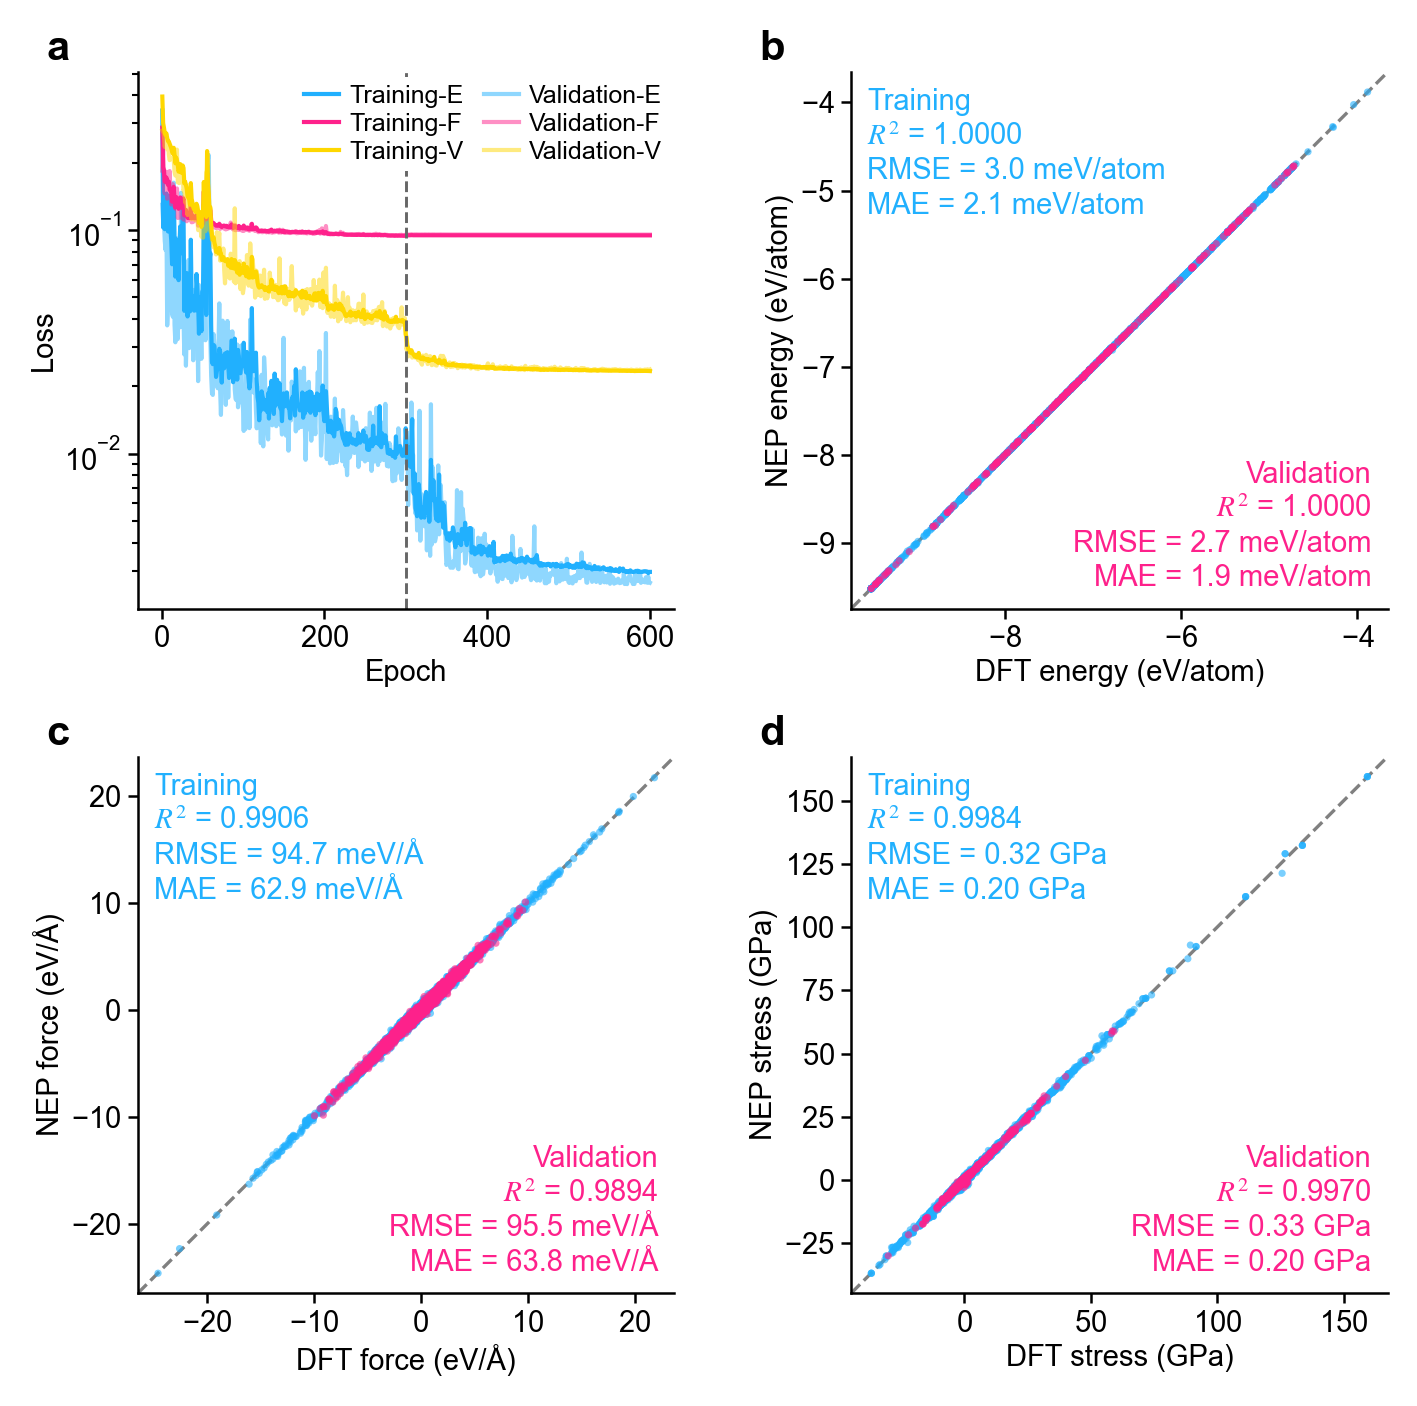
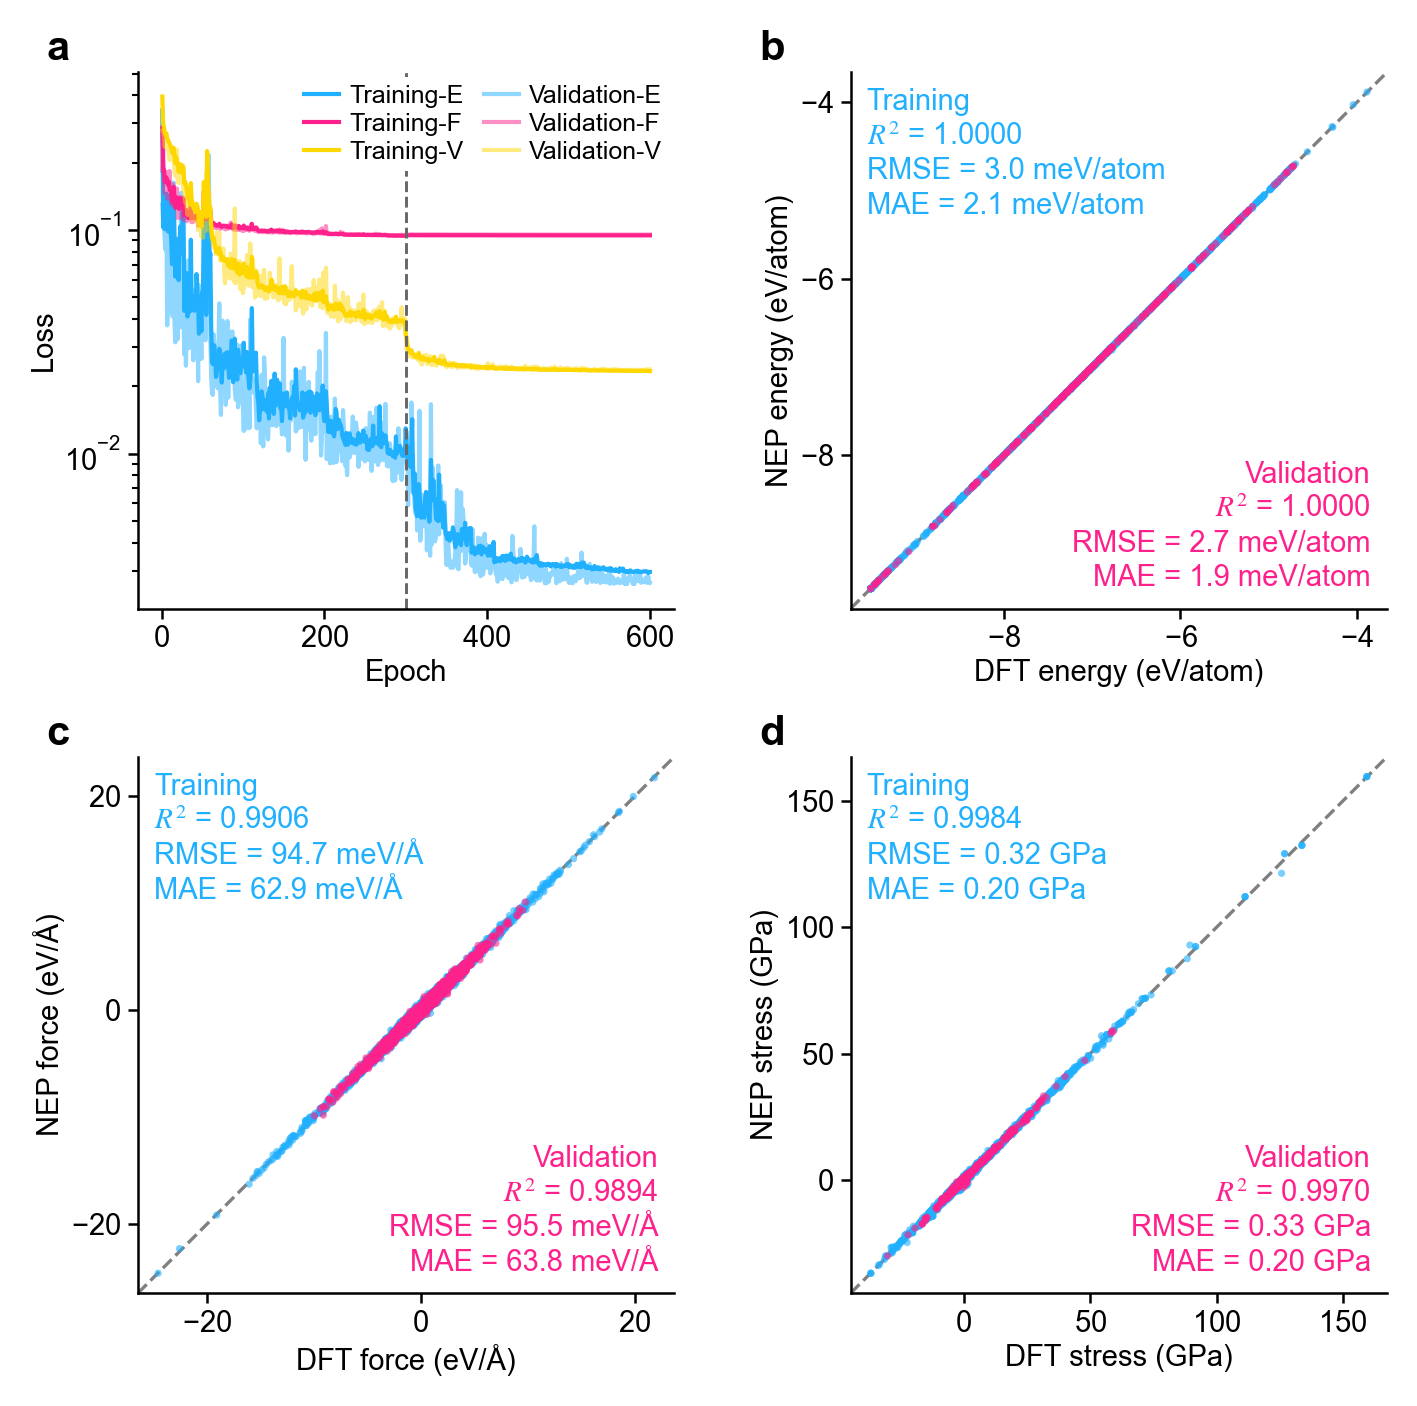
plot: drop the error-density strip; parity panels share DFT/NEP limits and ticks

diff --git a/torchnep/plot.py b/torchnep/plot.py
@@ -317,28 +317,6 @@ def _density(ax, x, y, extent, cmap, zorder=2, bins=80, cmap_range=(0.1, 0.9), c
     return col
 
 
-def _kde(x, grid):
-    """Gaussian kernel density of ``x`` on the uniform ``grid`` (Silverman
-    bandwidth, at least one grid step). Every point is used: the data are
-    binned on the grid and the histogram is smoothed with the kernel, so the
-    cost is O(N) and rare outliers are not lost to subsampling."""
-    x = np.asarray(x, float).ravel()
-    if len(x) == 0:
-        return np.zeros_like(grid)
-    sd = float(x.std())
-    step = float(grid[1] - grid[0])
-    if sd <= 0:
-        return np.zeros_like(grid)
-    h = max(1.06 * sd * len(x) ** (-0.2), step)
-    edges = np.concatenate([grid - step / 2, [grid[-1] + step / 2]])
-    counts, _ = np.histogram(x, bins=edges)
-    half = int(np.ceil(4 * h / step))
-    k = np.exp(-0.5 * (np.arange(-half, half + 1) * step / h) ** 2)
-    out = np.convolve(counts.astype(float), k, mode="same")[:len(grid)] if len(k) <= len(grid) \
-        else np.convolve(counts.astype(float), k, mode="full")[half:half + len(grid)]
-    return out / (len(x) * h * np.sqrt(2 * np.pi))
-
-
 _QTY = {   # key: (title, unit, error unit, error scale)
     "E": ("Energy", "eV/atom", "meV/atom", 1e3),
     "F": ("Force", "eV/Å", "meV/Å", 1e3),
@@ -390,6 +368,15 @@ PT_FAMILIES = [
     ("Lanthanides (4f)", "La Ce Pr Nd Pm Sm Eu Gd Tb Dy Ho Er Tm Yb Lu", "#e377c2"),
     ("Actinides (5f)", "Ac Th Pa U Np Pu Am Cm Bk Cf Es Fm Md No Lr", "#c49c94"),
 ]
+
+
+def _equal_ticks(ax, lo, hi, nbins=5):
+    """Parity panel: the same limits and the same tick positions on the DFT (x) and NEP (y) axes."""
+    from matplotlib.ticker import MaxNLocator
+    t = MaxNLocator(nbins=nbins, steps=[1, 2, 2.5, 5, 10]).tick_values(lo, hi)
+    t = t[(t >= lo - 1e-9 * (hi - lo)) & (t <= hi + 1e-9 * (hi - lo))]
+    ax.set_xticks(t); ax.set_yticks(t)
+    ax.set_xlim(lo, hi); ax.set_ylim(lo, hi)
 
 
 def element_errors(path, xyz, split="train"):
@@ -563,8 +550,7 @@ class NEPPlotter:
             ax.scatter(r, p, s=4, alpha=0.5, color=color, edgecolors="none",
                        rasterized=True)
         ax.plot([lo, hi], [lo, hi], "--", color="0.3", lw=0.8, zorder=0)
-        ax.set_xlim(lo, hi)
-        ax.set_ylim(lo, hi)
+        _equal_ticks(ax, lo, hi)
         ax.set_aspect("equal", adjustable="box")
         ax.set_xlabel(f"DFT {title.lower()} ({unit})")
         ax.set_ylabel(f"NEP {title.lower()} ({unit})")
@@ -672,9 +658,8 @@ class NEPPlotter:
 
     def _block(self, fig, box, sets, q, kind, margins, bins=80, cell="hex"):
         """One quantity: square parity panel at ``box = (x0, y0, L)`` (cm) and,
-        with ``margins``, the error against the DFT value on top and the
-        error density on the right. Returns (main axes, top axes or None,
-        hexbin handles)."""
+        with ``margins``, the error (NEP − DFT) against the DFT value in a strip
+        on top. Returns (main axes, top axes or None, density handles)."""
         W, H = fig.get_size_inches() * 2.54
         x0, y0, L = box
         gap, strip = 0.12, 0.3 * L
@@ -686,8 +671,6 @@ class NEPPlotter:
         if not margins:
             return ax, None, handles
         ax_top = add(x0, y0 + L + gap, L, strip)
-        ax_right = add(x0 + L + gap, y0, strip, L)
-        title, unit, _, _ = _QTY[q]
         errs = []
         for k, (label, ref, pred, sk) in enumerate(sets):
             ref, pred = np.ravel(ref).astype(float), np.ravel(pred).astype(float)
@@ -703,6 +686,7 @@ class NEPPlotter:
                 ax_top.scatter(ref, err, s=2, alpha=0.5, color=color, edgecolors="none",
                                rasterized=True, zorder=2 + k)
         ax_top.axhline(0.0, color="grey", lw=0.7, ls="--", zorder=1)
+        ax_top.set_xticks(ax.get_xticks())
         ax_top.set_xlim(ax.get_xlim())
         ax_top.set_ylabel("Error")               # same unit as the axes below
         ax_top.tick_params(labelbottom=False)
@@ -712,7 +696,6 @@ class NEPPlotter:
             if hi - lo < 1e-12:
                 lo, hi = lo - 0.5, hi + 0.5
             lo, hi = lo - 0.04 * (hi - lo), hi + 0.04 * (hi - lo)
-            grid = np.linspace(lo, hi, 300)
             if kind == "density":
                 xl = ax.get_xlim()
                 for k, (label, ref, pred, sk) in enumerate(sets):
@@ -720,28 +703,7 @@ class NEPPlotter:
                     _density(ax_top, ref, pred - ref, (xl[0], xl[1], lo, hi), self.cmaps[sk],
                              zorder=2 + k, cell=cell, cmap_range=self.cmap_range, cmap_reverse=self.cmap_reverse,
                              bins=bins if cell == "hex" else (bins, max(10, bins // 3)))
-            for err, sk in errs:
-                color = self.colors[sk] if kind != "density" else _dark(self.cmaps[sk])
-                dens = _kde(err, grid)
-                ax_right.fill_betweenx(grid, 0, dens, color=color, alpha=0.35, lw=0)
-                ax_right.plot(dens, grid, color=color, lw=0.9)
-            ax_right.axhline(0.0, color="grey", lw=0.7, ls="--", zorder=1)
             ax_top.set_ylim(lo, hi)
-            ax_right.set_ylim(lo, hi)
-            ax_right.set_xlim(0, None)
-        ax_right.set_xlabel("Density")
-        ax_right.set_xticks([])
-        # the error axis of the density strip is labelled on its own right side (the left side faces the parity
-        # panel, whose y axis is the NEP value, not the error): same range and ticks as the error strip on top
-        ax_right.spines["left"].set_visible(False)
-        ax_right.spines["right"].set_visible(True)
-        ax_right.yaxis.tick_right()
-        ax_right.yaxis.set_label_position("right")
-        ax_right.tick_params(axis="y", left=False, labelleft=False, right=True, labelright=True)
-        if ax_top is not None:
-            ax_right.set_yticks(ax_top.get_yticks())
-            ax_right.set_ylim(ax_top.get_ylim())
-        ax_right.set_ylabel("Error", rotation=270, labelpad=8)
         return ax, ax_top, handles
 
     def parity(self, path, kind="scatter", margins=False, virial=False, out=None,
@@ -751,9 +713,9 @@ class NEPPlotter:
         last only with stress labels) with training and validation overlaid
         and R^2 / RMSE / MAE per set. ``kind="density"``: log-count 2-D histograms
         (training Blues, validation Reds) with a small horizontal colorbar
-        under every panel. ``margins=True`` adds the error distribution
-        around each panel: NEP − DFT against the DFT value on top, a kernel
-        density estimate of the error on the right. ``virial=True`` shows the
+        under every panel. ``margins=True`` adds a strip on top of each panel
+        with the error NEP − DFT against the DFT value. The DFT and NEP axes
+        share limits and ticks. ``virial=True`` shows the
         virial (eV/atom) instead of the stress in the third panel;
         ``quantities`` overrides the panels altogether (any of ``E F V S``);
         ``shift_energy`` (``"mean"`` /
@@ -790,7 +752,7 @@ class NEPPlotter:
         L = float(size)
         left, top, gap = 1.25, 0.55, 0.12                  # margins in cm
         strip = 0.3 * L if margins else 0.0
-        right = 0.35 + (strip + gap + 0.9 if margins else 0.0)     # + room for the error ticks/label of the density strip
+        right = 0.35
         cbar_h = 0.75 if kind == "density" else 0.0         # bar + its label
         bottom = 0.95 + cbar_h
         block = left + L + right
@@ -976,8 +938,7 @@ class NEPPlotter:
                         transform=ax.transAxes, ha=c["ha"], va=c["va"], color=tcolor,
                         fontsize=self.rc["font.size"], linespacing=1.3, zorder=10)
         ax.plot([lo, hi], [lo, hi], "--", color="grey", lw=0.8, zorder=1)
-        ax.set_xlim(lo, hi)
-        ax.set_ylim(lo, hi)
+        _equal_ticks(ax, lo, hi)
         ax.set_aspect("equal", adjustable="box")
         ax.set_xlabel(f"DFT {title.lower()} ({unit})")
         ax.set_ylabel(f"NEP {title.lower()} ({unit})")

diff --git a/README.md b/README.md
@@ -414,7 +414,7 @@ p = NEPPlotter()
 p.dashboard("run", out="dashboard.png")                 # loss curves + E/F/stress parity, train and valid
 p.loss("run", out="loss.png")                            # the loss panel alone
 p.parity("run", out="parity.png")                        # E/F/stress parity plots (virial=True for the virial)
-p.parity("run", kind="density", margins=True,            # hexagon density + error distributions
+p.parity("run", kind="density", margins=True,            # hexagon density + error strip on top
          out="parity_density.png")
 p.parity("pred", shift_energy="element", xyz="test.xyz", # data of another DFT reference: remove
          out="pred.png")                                 # the per-element energy offset first
@@ -429,7 +429,7 @@ style for every figure.
   <sub><em><code>p.dashboard("run")</code></em></sub>
 </p>
 <p align="center">
-  <img src="https://raw.githubusercontent.com/mushroomfire/torchnep/master/assets/plot_parity_margins_density.png" alt="parity plots with error distributions" width="95%">
+  <img src="https://raw.githubusercontent.com/mushroomfire/torchnep/master/assets/plot_parity_margins_density.png" alt="parity plots with error strips" width="95%">
   <br>
   <sub><em><code>p.parity("run", kind="density", margins=True)</code></em></sub>
 </p>
